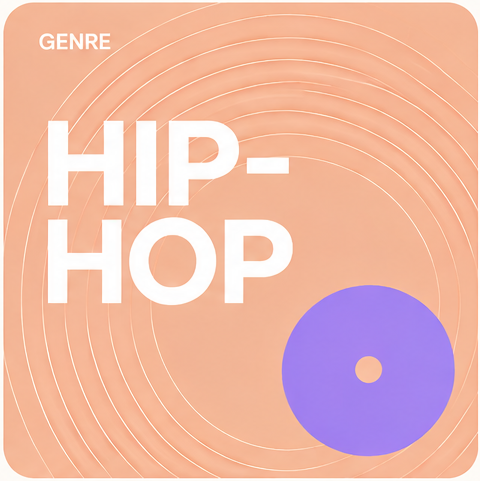
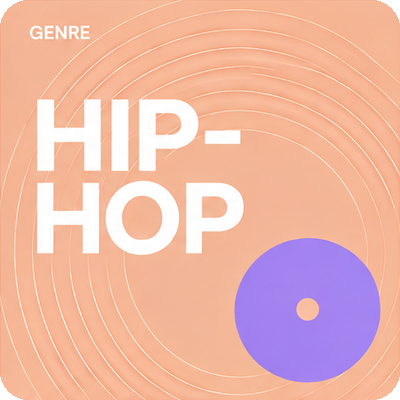
Fixede billeder og tilføjede linje i server.js så vi kunne bruge billeder fra vores mappe

diff --git a/frontend/styles.css b/frontend/styles.css
@@ -2,6 +2,7 @@
     box-sizing: border-box;
 }
 
+/* Overordnet CSS der gælder på det meste af siden*/
 body {
     margin: 0;
     font-family: Arial, Helvetica, sans-serif;
@@ -11,12 +12,13 @@ body {
     font-weight: 300;
 }
 
-.intro {
-    grid-column: 1 / -1;
-    padding-bottom: 50px;
+.page {
+    min-height: calc(100vh - 64px);
+    display: grid;
+    grid-template-columns: 56% 44%;
 }
 
-
+/* Her starter CSS på vores bar i toppen*/
 .navbar {
     height: 64px;
     display: flex;
@@ -63,12 +65,21 @@ body {
     text-decoration: none;
 }
 
-.page {
-    min-height: calc(100vh - 64px);
-    display: grid;
-    grid-template-columns: 56% 44%;
+
+/* Her er vores "overskrifter"*/
+.intro {
+    grid-column: 1 / -1;
+    padding-bottom: 50px;
+    margin: 0;
 }
 
+.intro h1 {
+    margin: 0;
+    line-height: 1.3;
+}
+
+
+/* Her begynder CSS på vores genre knapper*/
 .genres, .player {
     padding: 50px;
 }
@@ -97,16 +108,6 @@ body {
     font-weight: 350px;
 }
 
-
-
-.genres h1:first-of-type  { 
-    margin-bottom: -25px; 
-} 
-
-.genres h1:nth-of-type(2) {
-    margin-bottom: 30;
-}
-
 .genres button {
     min-height: 90px;
     border: 0;
@@ -119,27 +120,6 @@ body {
     align-items: flex-start;
     justify-content: flex-start;
     font-family: Arial, Helvetica, sans-serif;
-}
-
-.player {
-    background: #ecede4;
-}
-
-.player h1 {
-    font-family: inherit;
-    letter-spacing: inherit;
-    padding-bottom: inherit;
-    font-weight: inherit;
-}
-
-.player-bar {
-    position: fixed;
-    left: 0;
-    right: 0;
-    bottom: 0;
-    height: 70px;
-    background: white;
-    border-top: 1px solid #eee;
 }
 
 .electronic {
@@ -172,16 +152,7 @@ body {
     color: black;
 }
 
-
-
-  .afspiller {
-    width: 100%;
-    height: 60px;
-    border-radius: 0;
-    color: #a92222;
-}
-
-button:hover {
+.genres button:hover {
     cursor: pointer;
     filter:brightness(95%);
 }
@@ -191,3 +162,57 @@ button:hover {
     transform: scale(98%);
 
 }
+
+/* Her begynder CSS på vores player/højre side*/
+.player {
+    background: #ecede4;
+}
+
+.player h1 {
+    font-family: inherit;
+    letter-spacing: inherit;
+    padding-bottom: inherit;
+    font-weight: inherit;
+}
+
+.player-bar {
+    position: fixed;
+    left: 0;
+    right: 0;
+    bottom: 0;
+    height: 70px;
+    background: white;
+    border-top: 1px solid #eee;
+}
+
+.genre-image {
+    width: 100%;
+    aspect-ratio: 1 / 1;
+    margin-top: 25px;
+    border-radius: 16px;
+    background-color: #d9d9d9;
+
+    display: grid;
+    place-items: center;
+    overflow: hidden;
+}
+
+.genre-image img {
+    width: 60%;
+    height: auto;
+    display: block;
+}
+
+.genre-image span {
+    color: #777;
+    font-size: 18px;
+}
+
+/* Vores afspiller i bunden*/
+.afspiller {
+    width: 100%;
+    height: 60px;
+    border-radius: 0;
+    color: #a92222;
+}
+

diff --git a/frontend/index.html b/frontend/index.html
@@ -38,7 +38,11 @@
         </section>
 
         <aside class="player">
-         <h1>Læn dig tilbage.</h1>  
+         <h1>Læn dig tilbage.</h1> 
+
+        <div class="genre-image">
+            <img id="genre-cover" src="/images/elektronisk.png" alt="Genre cover">
+        </div>
         </aside>
     </main>
 

diff --git a/backend/server.js b/backend/server.js
@@ -7,6 +7,7 @@ const port = 3009;
 const server = express();
 
 server.use(express.static('frontend'));
+server.use('/images', express.static('images'));
 server.use(onEachRequest);
 server.listen(port, onServerReady);
 
